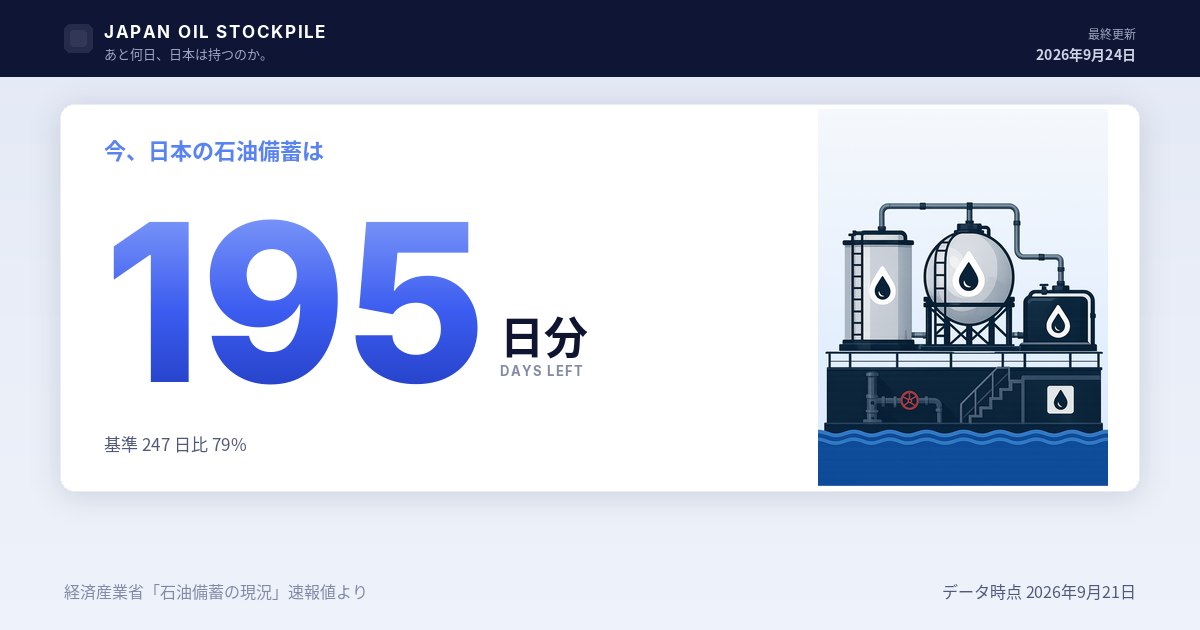
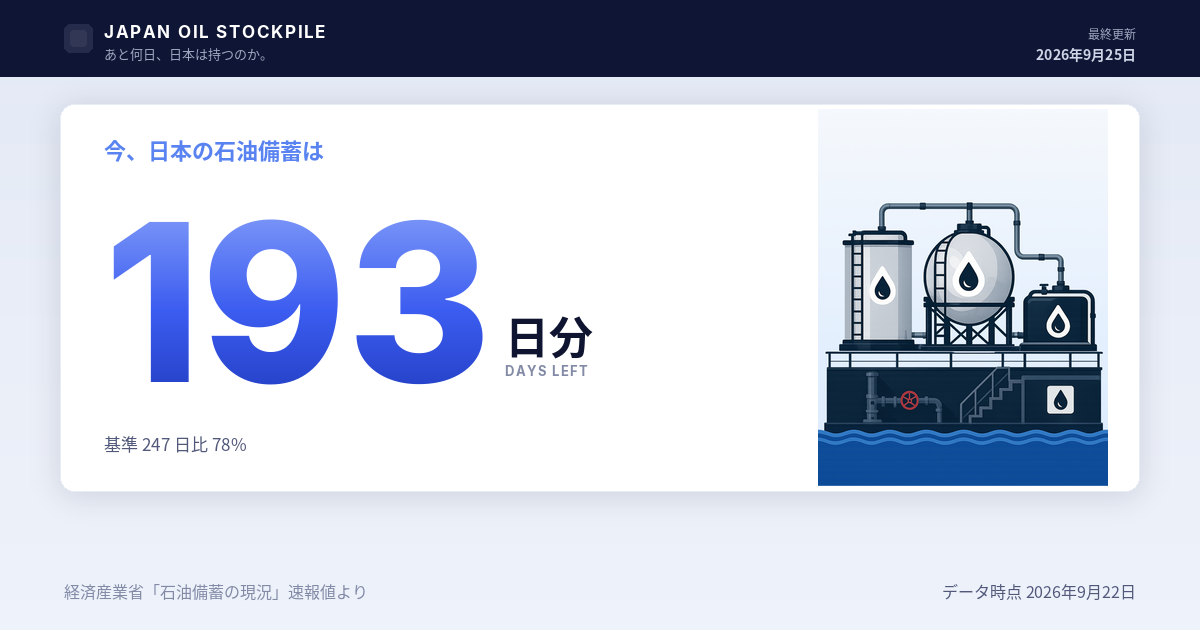
data: auto-update 2026-09-26

Changed region(s): [[0.2775, 0.3317, 0.4933, 0.6032], [0.2775, 0.3317, 0.3392, 0.3921]]

diff --git a/index.html b/index.html
@@ -15,16 +15,16 @@
 </script>
 
 <title>あと何日？｜日本の石油備蓄</title>
-<meta name="description" content="日本の石油備蓄はいま約200日分（2026年9月21日集計時点）。経済産業省「石油備蓄の現況」速報値を毎日更新で可視化する非公式カウンター。">
+<meta name="description" content="日本の石油備蓄はいま約198日分（2026年9月22日集計時点）。経済産業省「石油備蓄の現況」速報値を毎日更新で可視化する非公式カウンター。">
 <link rel="canonical" href="https://oilstock.nextlabs.jp/">
 <meta name="robots" content="index,follow,max-image-preview:large,max-snippet:-1">
 
 <meta property="og:type" content="website">
 <meta property="og:site_name" content="あと何日？日本の石油備蓄">
-<meta property="og:url" content="https://oilstock.nextlabs.jp/?v=fa4b054f">
+<meta property="og:url" content="https://oilstock.nextlabs.jp/?v=88ba14c1">
 <meta property="og:title" content="あと何日？｜日本の石油備蓄">
 <meta property="og:description" content="経済産業省の速報値から、日本の石油備蓄日数を静かに可視化します。">
-<meta property="og:image" content="https://oilstock.nextlabs.jp/assets/og-image.png?v=fa4b054f">
+<meta property="og:image" content="https://oilstock.nextlabs.jp/assets/og-image.png?v=88ba14c1">
 <meta property="og:image:type" content="image/png">
 <meta property="og:image:width" content="1200">
 <meta property="og:image:height" content="630">
@@ -34,7 +34,7 @@
 <meta name="twitter:site" content="@tomohkamei">
 <meta name="twitter:title" content="あと何日？｜日本の石油備蓄">
 <meta name="twitter:description" content="経済産業省の速報値から、日本の石油備蓄日数を静かに可視化します。">
-<meta name="twitter:image" content="https://oilstock.nextlabs.jp/assets/og-image.png?v=fa4b054f">
+<meta name="twitter:image" content="https://oilstock.nextlabs.jp/assets/og-image.png?v=88ba14c1">
 
 <link rel="icon" href="assets/favicon.svg" type="image/svg+xml">
 <link rel="preconnect" href="https://fonts.googleapis.com">
@@ -89,13 +89,13 @@
       },
       "citation": "経済産業省「石油備蓄の現況」",
       "measurementTechnique": "備蓄量 ÷ 1日あたり推定消費量",
-      "temporalCoverage": "2026-09-21",
-      "dateModified": "2026-09-24",
+      "temporalCoverage": "2026-09-22",
+      "dateModified": "2026-09-25",
       "variableMeasured": [
         {
           "@type": "PropertyValue",
           "name": "合計備蓄日数",
-          "value": 200,
+          "value": 198,
           "unitText": "日分"
         },
         {
@@ -107,7 +107,7 @@
         {
           "@type": "PropertyValue",
           "name": "民間備蓄",
-          "value": 94,
+          "value": 92,
           "unitText": "日分"
         },
         {
@@ -128,7 +128,7 @@
           "name": "日本の石油備蓄はあと何日分ありますか？",
           "acceptedAnswer": {
             "@type": "Answer",
-            "text": "経済産業省の最新公表値（2026年9月21日集計時点）で、合計約200日分です。内訳は国家備蓄102日分、民間備蓄94日分、産油国共同備蓄4日分です。"
+            "text": "経済産業省の最新公表値（2026年9月22日集計時点）で、合計約198日分です。内訳は国家備蓄102日分、民間備蓄92日分、産油国共同備蓄4日分です。"
           }
         },
         {
@@ -193,7 +193,7 @@
     </nav>
     <div class="site-header-meta">
       <span class="site-header-meta-label">最終更新</span>
-      <span class="site-header-meta-value" id="header-last-updated">2026.09.24</span>
+      <span class="site-header-meta-value" id="header-last-updated">2026.09.25</span>
     </div>
   </div>
 </header>
@@ -214,7 +214,7 @@
   <section class="update-banner" aria-label="更新情報">
     <span class="update-banner-label">最新の更新情報</span>
     <span class="update-banner-divider" aria-hidden="true">｜</span>
-    <span class="update-banner-date" id="update-banner-date">2026.09.24</span>
+    <span class="update-banner-date" id="update-banner-date">2026.09.25</span>
     <span class="update-banner-divider" aria-hidden="true">｜</span>
     <span class="update-banner-text">石油備蓄の現況を更新</span>
   </section>
@@ -228,7 +228,7 @@
         <div class="hero-left">
           <span class="dash-card-eyebrow dash-card-eyebrow--brand">今、日本の石油備蓄は</span>
           <div class="counter-days-row" role="timer" aria-label="日本の石油備蓄 推計日数">
-            <span id="counter-days" class="counter-num">200</span>
+            <span id="counter-days" class="counter-num">198</span>
             <span class="counter-unit-stack">
               <span class="counter-unit">日分</span>
               <span class="counter-sub-label">DAYS LEFT</span>

diff --git a/simulator/index.html b/simulator/index.html
@@ -21,10 +21,10 @@
 
 <meta property="og:type" content="website">
 <meta property="og:site_name" content="あと何日？日本の石油備蓄">
-<meta property="og:url" content="https://oilstock.nextlabs.jp/simulator/?v=fa4b054f">
+<meta property="og:url" content="https://oilstock.nextlabs.jp/simulator/?v=88ba14c1">
 <meta property="og:title" content="有事シミュレーション｜日本の石油備蓄はあと何日">
 <meta property="og:description" content="ホルムズ海峡封鎖などの想定で、日本の石油備蓄が「あと何日」もつかを試算。数値は推計・出典は財務省貿易統計。">
-<meta property="og:image" content="https://oilstock.nextlabs.jp/assets/og-image.png?v=fa4b054f">
+<meta property="og:image" content="https://oilstock.nextlabs.jp/assets/og-image.png?v=88ba14c1">
 <meta property="og:image:type" content="image/png">
 <meta property="og:image:width" content="1200">
 <meta property="og:image:height" content="630">
@@ -34,7 +34,7 @@
 <meta name="twitter:site" content="@tomohkamei">
 <meta name="twitter:title" content="有事シミュレーション｜日本の石油備蓄はあと何日">
 <meta name="twitter:description" content="ホルムズ海峡封鎖などの想定で、日本の石油備蓄が「あと何日」もつかを試算。数値は推計。">
-<meta name="twitter:image" content="https://oilstock.nextlabs.jp/assets/og-image.png?v=fa4b054f">
+<meta name="twitter:image" content="https://oilstock.nextlabs.jp/assets/og-image.png?v=88ba14c1">
 
 <link rel="icon" href="../assets/favicon.svg" type="image/svg+xml">
 <link rel="preconnect" href="https://fonts.googleapis.com">

diff --git a/forecast/index.html b/forecast/index.html
@@ -21,10 +21,10 @@
 
 <meta property="og:type" content="website">
 <meta property="og:site_name" content="あと何日？日本の石油備蓄">
-<meta property="og:url" content="https://oilstock.nextlabs.jp/forecast/?v=fa4b054f">
+<meta property="og:url" content="https://oilstock.nextlabs.jp/forecast/?v=88ba14c1">
 <meta property="og:title" content="有事終息予想｜この有事はいつ終わるか｜日本の石油備蓄">
 <meta property="og:description" content="ホルムズ海峡の有事がいつ終息するか、来訪者の予想を実票で集計。">
-<meta property="og:image" content="https://oilstock.nextlabs.jp/assets/og-image.png?v=fa4b054f">
+<meta property="og:image" content="https://oilstock.nextlabs.jp/assets/og-image.png?v=88ba14c1">
 <meta property="og:image:type" content="image/png">
 <meta property="og:image:width" content="1200">
 <meta property="og:image:height" content="630">
@@ -34,7 +34,7 @@
 <meta name="twitter:site" content="@tomohkamei">
 <meta name="twitter:title" content="有事終息予想｜この有事はいつ終わるか｜日本の石油備蓄">
 <meta name="twitter:description" content="ホルムズ海峡の有事がいつ終息するか、来訪者の予想を実票で集計。">
-<meta name="twitter:image" content="https://oilstock.nextlabs.jp/assets/og-image.png?v=fa4b054f">
+<meta name="twitter:image" content="https://oilstock.nextlabs.jp/assets/og-image.png?v=88ba14c1">
 
 <link rel="icon" href="../assets/favicon.svg" type="image/svg+xml">
 <link rel="preconnect" href="https://fonts.googleapis.com">

diff --git a/scale/index.html b/scale/index.html
@@ -21,10 +21,10 @@
 
 <meta property="og:type" content="website">
 <meta property="og:site_name" content="あと何日？日本の石油備蓄">
-<meta property="og:url" content="https://oilstock.nextlabs.jp/scale/?v=fa4b054f">
+<meta property="og:url" content="https://oilstock.nextlabs.jp/scale/?v=88ba14c1">
 <meta property="og:title" content="石油のものさし｜日本の石油備蓄">
 <meta property="og:description" content="備蓄日数を kL・バレル・VLCC隻数・年間消費比に換算して、肌感覚を補強します。">
-<meta property="og:image" content="https://oilstock.nextlabs.jp/assets/og-image.png?v=fa4b054f">
+<meta property="og:image" content="https://oilstock.nextlabs.jp/assets/og-image.png?v=88ba14c1">
 <meta property="og:image:type" content="image/png">
 <meta property="og:image:width" content="1200">
 <meta property="og:image:height" content="630">
@@ -34,7 +34,7 @@
 <meta name="twitter:site" content="@tomohkamei">
 <meta name="twitter:title" content="石油のものさし｜日本の石油備蓄">
 <meta name="twitter:description" content="備蓄日数を kL・バレル・VLCC隻数・年間消費比に換算して、肌感覚を補強します。">
-<meta name="twitter:image" content="https://oilstock.nextlabs.jp/assets/og-image.png?v=fa4b054f">
+<meta name="twitter:image" content="https://oilstock.nextlabs.jp/assets/og-image.png?v=88ba14c1">
 
 <link rel="icon" href="../assets/favicon.svg" type="image/svg+xml">
 <link rel="preconnect" href="https://fonts.googleapis.com">

diff --git a/about/index.html b/about/index.html
@@ -21,10 +21,10 @@
 
 <meta property="og:type" content="website">
 <meta property="og:site_name" content="あと何日？日本の石油備蓄">
-<meta property="og:url" content="https://oilstock.nextlabs.jp/about/?v=fa4b054f">
+<meta property="og:url" content="https://oilstock.nextlabs.jp/about/?v=88ba14c1">
 <meta property="og:title" content="このサイトについて｜日本の石油備蓄">
 <meta property="og:description" content="サイトの目的・データ出典・計算方法・運営会社情報。">
-<meta property="og:image" content="https://oilstock.nextlabs.jp/assets/og-image.png?v=fa4b054f">
+<meta property="og:image" content="https://oilstock.nextlabs.jp/assets/og-image.png?v=88ba14c1">
 <meta property="og:image:type" content="image/png">
 <meta property="og:image:width" content="1200">
 <meta property="og:image:height" content="630">
@@ -34,7 +34,7 @@
 <meta name="twitter:site" content="@tomohkamei">
 <meta name="twitter:title" content="このサイトについて｜日本の石油備蓄">
 <meta name="twitter:description" content="サイトの目的・データ出典・計算方法・運営会社情報。">
-<meta name="twitter:image" content="https://oilstock.nextlabs.jp/assets/og-image.png?v=fa4b054f">
+<meta name="twitter:image" content="https://oilstock.nextlabs.jp/assets/og-image.png?v=88ba14c1">
 
 <link rel="icon" href="../assets/favicon.svg" type="image/svg+xml">
 <link rel="preconnect" href="https://fonts.googleapis.com">

diff --git a/tankers/index.html b/tankers/index.html
@@ -21,10 +21,10 @@
 
 <meta property="og:type" content="website">
 <meta property="og:site_name" content="あと何日？日本の石油備蓄">
-<meta property="og:url" content="https://oilstock.nextlabs.jp/tankers/?v=fa4b054f">
+<meta property="og:url" content="https://oilstock.nextlabs.jp/tankers/?v=88ba14c1">
 <meta property="og:title" content="日本周辺のタンカー｜日本の石油備蓄">
 <meta property="og:description" content="AIS データから日本周辺のタンカー隻数を集計。aisstream.io 提供。">
-<meta property="og:image" content="https://oilstock.nextlabs.jp/assets/og-image.png?v=fa4b054f">
+<meta property="og:image" content="https://oilstock.nextlabs.jp/assets/og-image.png?v=88ba14c1">
 <meta property="og:image:type" content="image/png">
 <meta property="og:image:width" content="1200">
 <meta property="og:image:height" content="630">
@@ -34,7 +34,7 @@
 <meta name="twitter:site" content="@tomohkamei">
 <meta name="twitter:title" content="日本周辺のタンカー">
 <meta name="twitter:description" content="AIS データから日本周辺のタンカー隻数を集計。">
-<meta name="twitter:image" content="https://oilstock.nextlabs.jp/assets/og-image.png?v=fa4b054f">
+<meta name="twitter:image" content="https://oilstock.nextlabs.jp/assets/og-image.png?v=88ba14c1">
 
 <link rel="icon" href="../assets/favicon.svg" type="image/svg+xml">
 <link rel="preconnect" href="https://fonts.googleapis.com">

diff --git a/opinions/index.html b/opinions/index.html
@@ -21,7 +21,7 @@
 
 <meta property="og:type" content="website">
 <meta property="og:site_name" content="あと何日？日本の石油備蓄">
-<meta property="og:url" content="https://oilstock.nextlabs.jp/opinions/?v=fa4b054f">
+<meta property="og:url" content="https://oilstock.nextlabs.jp/opinions/?v=88ba14c1">
 <meta property="og:title" content="提言｜国会論客カード｜日本の石油備蓄">
 <meta property="og:description" content="税・エネルギー負担をめぐる国会論戦を、論客カードとピックン先生の解説で整理。">
 <meta property="og:image" content="https://oilstock.nextlabs.jp/assets/og-opinions.png">
